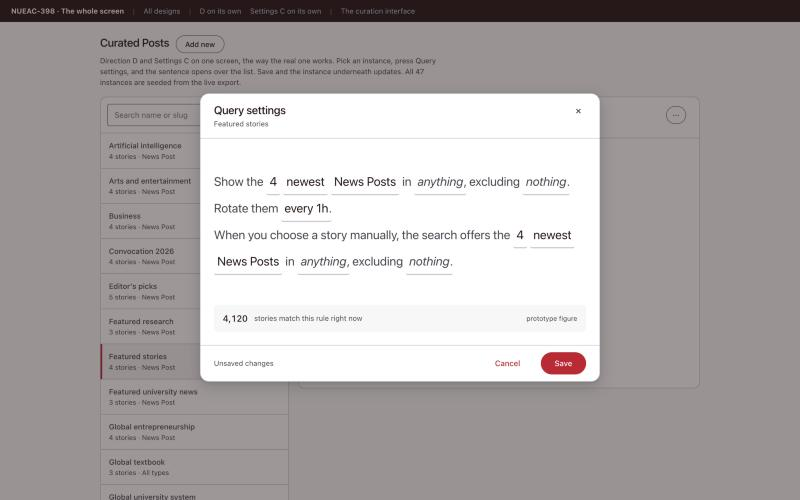
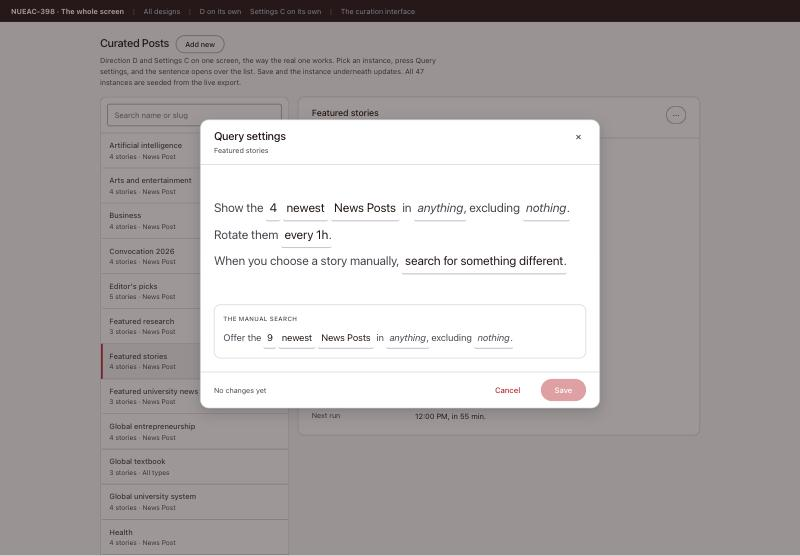
Record item 2 and re-shoot the by-hand screenshot

diff --git a/TICKETS.md b/TICKETS.md
@@ -1625,3 +1625,31 @@ Showing how many stories a rule matches while you are building it is the standar
 way to stop someone narrowing a query into nothing, and it is the one question
 the current screen cannot answer. It needs a real count from the server, not a
 guess. Proposed, with the endpoint it would need, rather than faked.
+
+## The manual search stops being a one-way door
+
+Xris: "once you set this to 'something different' you can't reset back to
+'search the same stories'. lets have that selection only change between
+'search the same stories' and 'something different' with an outlined box
+below it being where you construct the 'something different'."
+
+He is right, and it was a dead end rather than a preference. Picking the other
+mode replaced the whole clause with the spelled-out manual rule, and the token
+that could switch back only existed in the first branch, so it left the screen
+with the state it had created.
+
+The clause now reads as the toggle in both modes, "search the same stories" or
+"search for something different", so the way back is never taken off screen.
+What the other mode searches is built in an outlined box underneath, titled
+The manual search, whose words and tokens are the same as the first sentence.
+
+Two things fell out of it:
+
+- A live edit repainted the sentence only, so a number changed in the box
+  stayed on its old value. Both are views of one draft, so both repaint
+  through `paintRule()`.
+- Switching is one click now, so looking at the other mode used to throw away
+  a rule someone had just built. The built rule is set aside per dialog and
+  handed back. A first switch with nothing kept still starts from a copy of
+  the automatic query, which is what makes the work removing rather than
+  finding.
